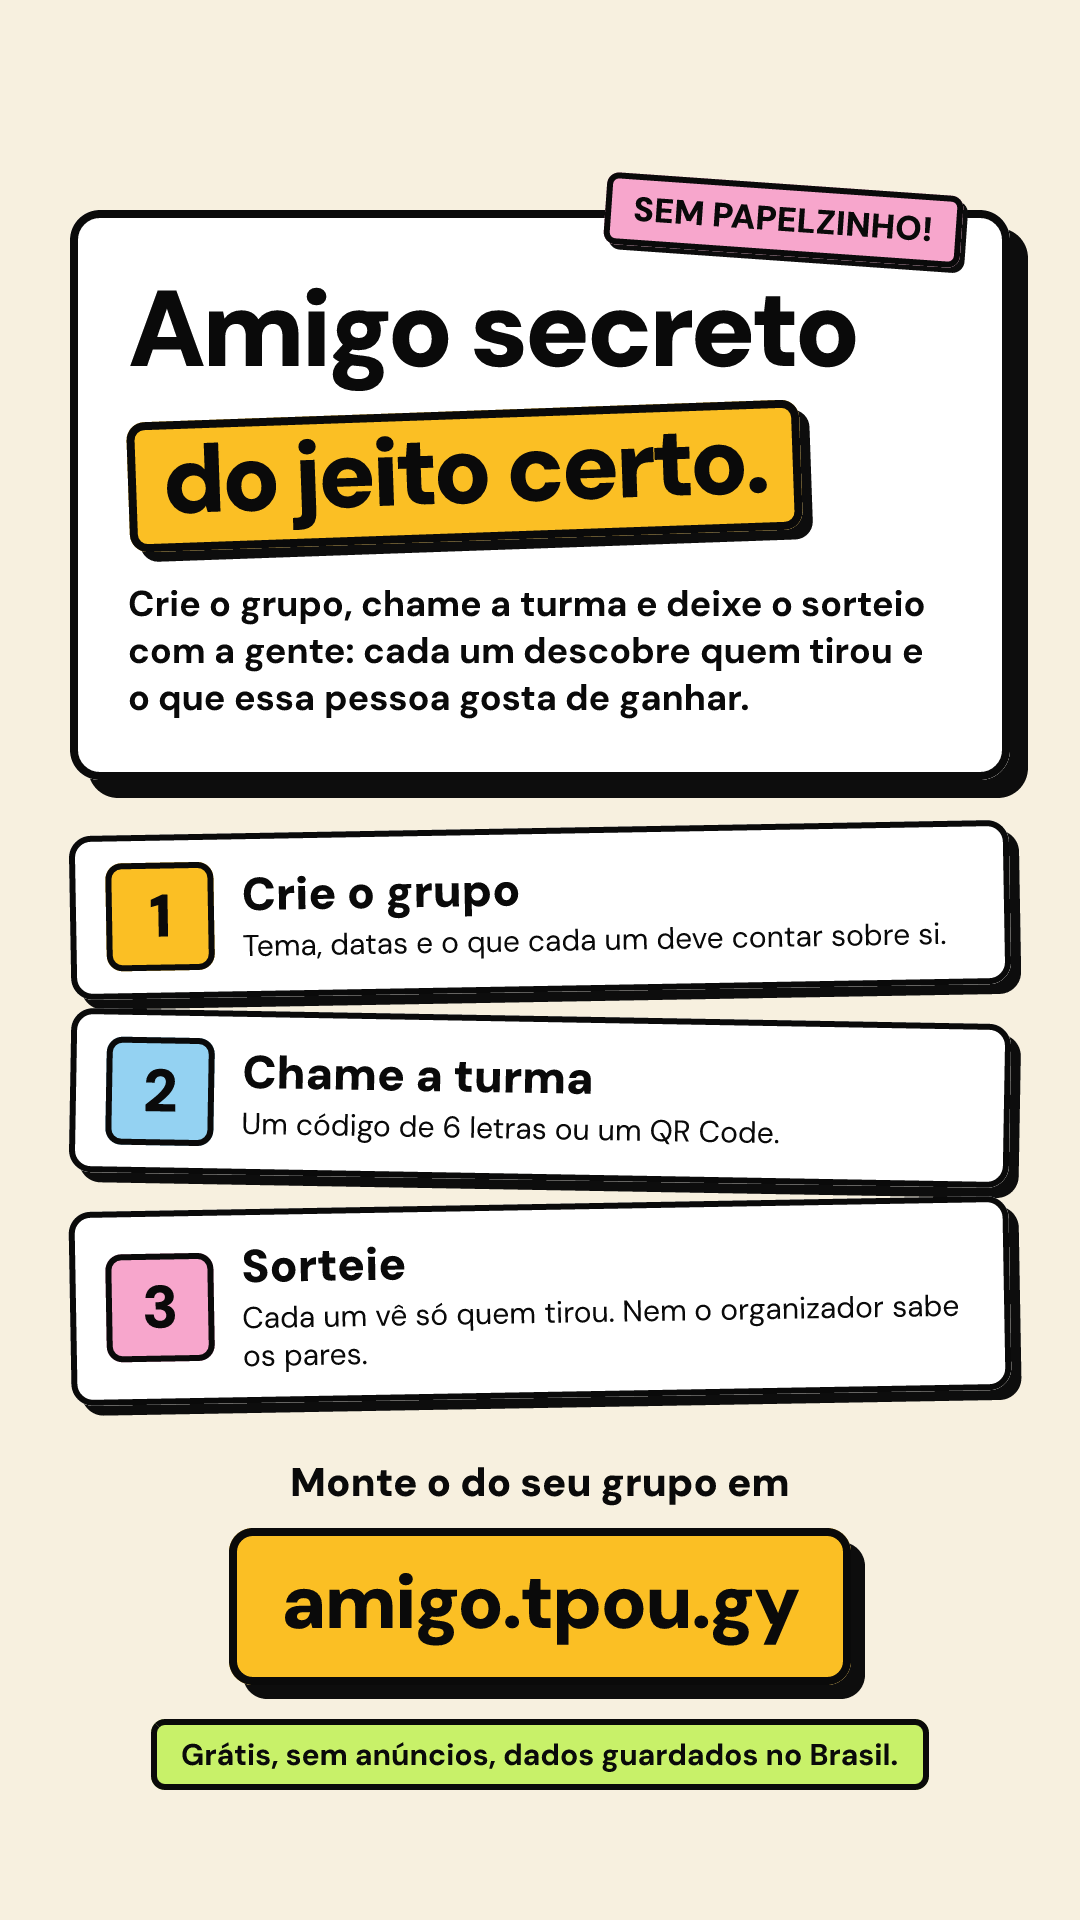
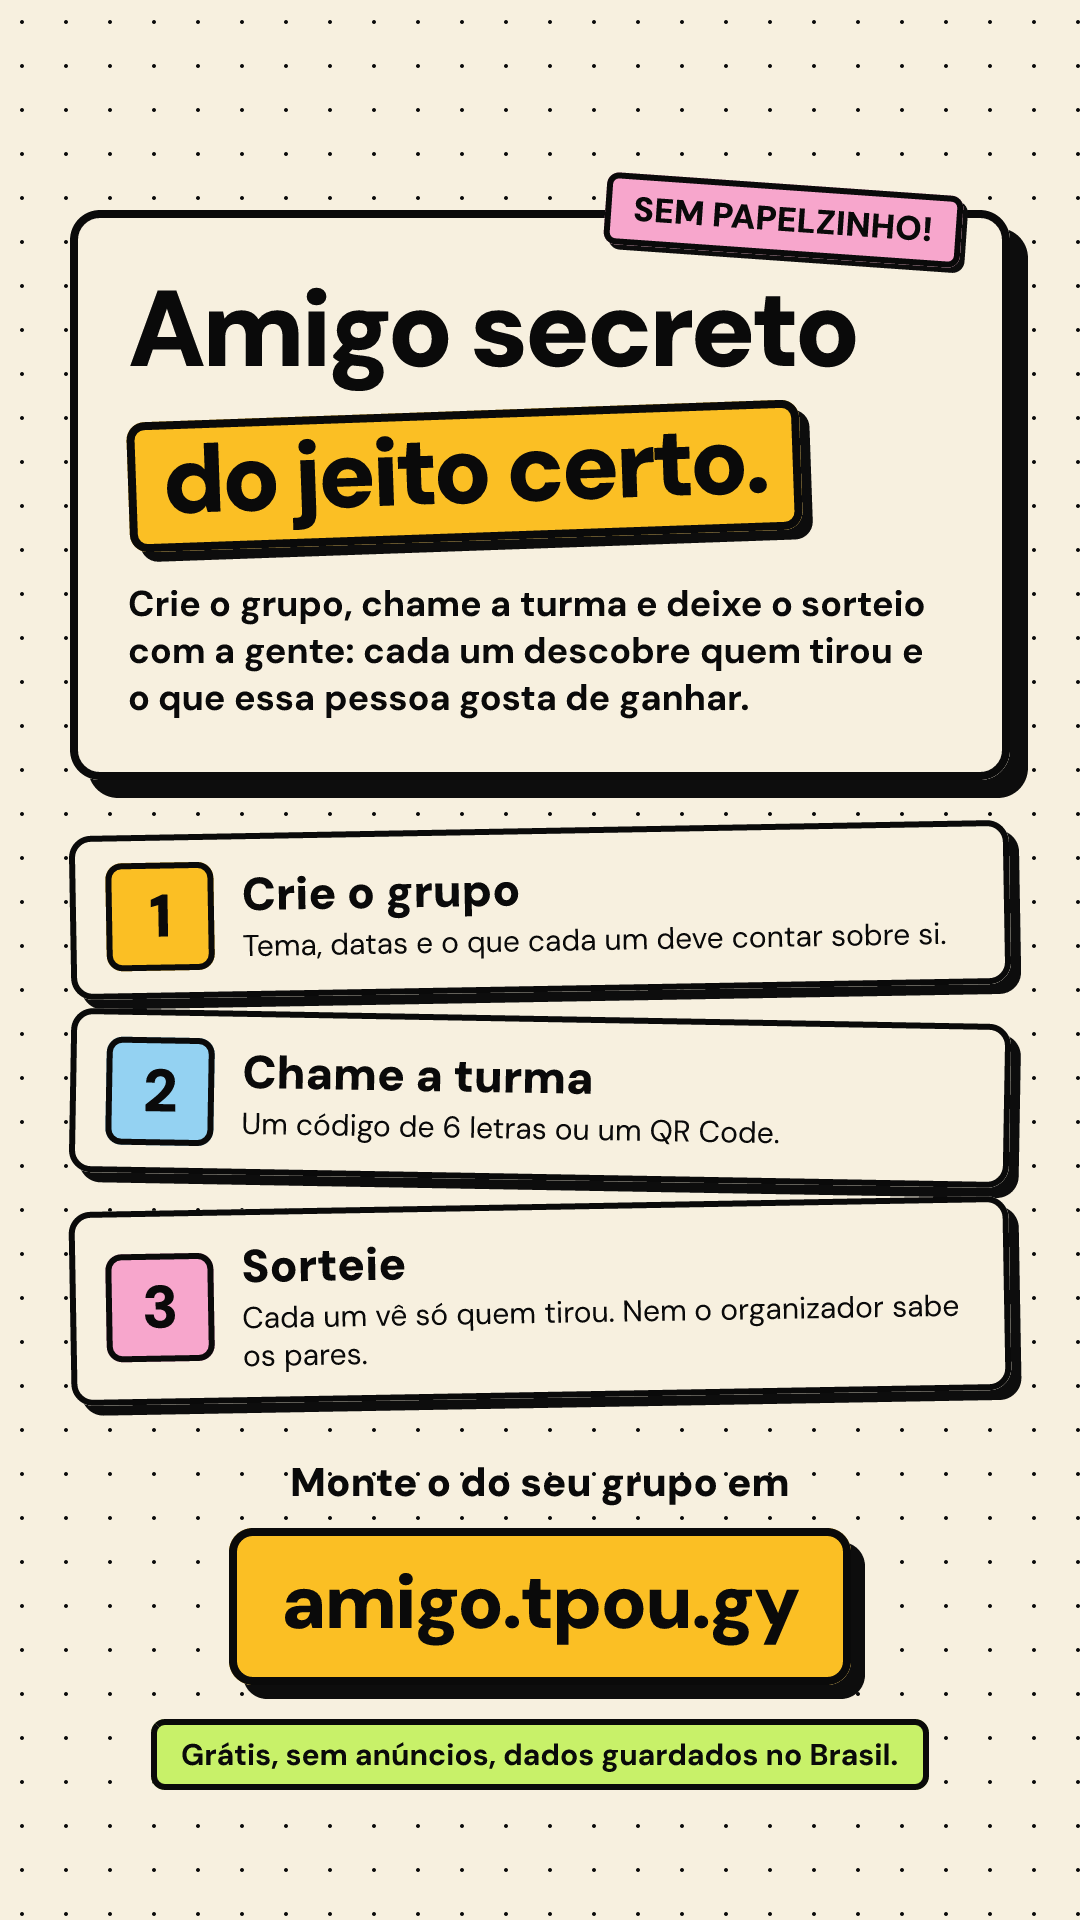
docs(divulgacao): stories com cards no bege do fundo e os pontinhos da landing
Claude-Session: https://claude.ai/code/session_01QpztnEyRLvtHmCb1a9kbXu

diff --git a/app/scripts/og-imagens.ts b/app/scripts/og-imagens.ts
@@ -191,6 +191,30 @@ function convite(): No {
 }
 
 /** Stories (1080×1920): o conteúdo da landing, com as faixas de cima e de baixo livres para a interface do app. */
+/**
+ * Pontinhos do fundo da landing (`bg-pontos`: 1,2 px a cada 22 px), na escala ~2× da arte.
+ * Camada de bolinhas absolutas: o radial-gradient repetido não renderiza no satori.
+ */
+function pontos(largura: number, altura: number, passo = 44, raio = 2.4): No {
+  const bolinhas: No[] = [];
+  for (let y = passo / 2; y < altura; y += passo) {
+    for (let x = passo / 2; x < largura; x += passo) {
+      bolinhas.push(
+        div({
+          position: "absolute",
+          left: x - raio,
+          top: y - raio,
+          width: raio * 2,
+          height: raio * 2,
+          borderRadius: raio,
+          background: COR.tinta,
+        }),
+      );
+    }
+  }
+  return div({ position: "absolute", left: 0, top: 0, width: largura, height: altura }, bolinhas);
+}
+
 function stories(): No {
   const passo = (n: number, cor: string, titulo: string, texto: string, rot: number) =>
     div(
@@ -200,7 +224,7 @@ function stories(): No {
         boxSizing: "border-box",
         gap: 28,
         padding: "22px 30px",
-        background: COR.branco,
+        background: COR.fundo,
         border: BORDA,
         borderRadius: 22,
         boxShadow: sombra(10),
@@ -234,8 +258,7 @@ function stories(): No {
       height: 1920,
       flexDirection: "column",
       background: COR.fundo,
-      backgroundImage: "radial-gradient(circle, rgba(10,10,10,0.16) 2.5px, transparent 2.5px)",
-      backgroundSize: "36px 36px",
+      position: "relative",
       color: COR.tinta,
       fontFamily: "DM Sans",
       paddingTop: 210,
@@ -245,6 +268,8 @@ function stories(): No {
       gap: 48,
     },
     [
+      pontos(1080, 1920),
+      // Conteúdo: cada bloco tem posição própria para ficar acima da camada de pontos.
       // Cartão principal
       div(
         {
@@ -253,7 +278,7 @@ function stories(): No {
           width: 940,
           boxSizing: "border-box",
           padding: "60px 50px 50px",
-          background: COR.branco,
+          background: COR.fundo,
           border: "8px solid #0a0a0a",
           borderRadius: 30,
           boxShadow: sombra(18),
@@ -300,13 +325,13 @@ function stories(): No {
         ],
       ),
       // Passos
-      div({ flexDirection: "column", gap: 24 }, [
+      div({ position: "relative", flexDirection: "column", gap: 24 }, [
         passo(1, COR.ambar, "Crie o grupo", "Tema, datas e o que cada um deve contar sobre si.", -1),
         passo(2, COR.ceu, "Chame a turma", "Um código de 6 letras ou um QR Code.", 1),
         passo(3, COR.rosa, "Sorteie", "Cada um vê só quem tirou. Nem o organizador sabe os pares.", -1),
       ]),
       // Chamada final
-      div({ flexDirection: "column", alignItems: "center", width: 940, gap: 20, marginTop: 10 }, [
+      div({ position: "relative", flexDirection: "column", alignItems: "center", width: 940, gap: 20, marginTop: 10 }, [
         div({ fontSize: 40, fontWeight: 900 }, "Monte o do seu grupo em"),
         div(
           {
